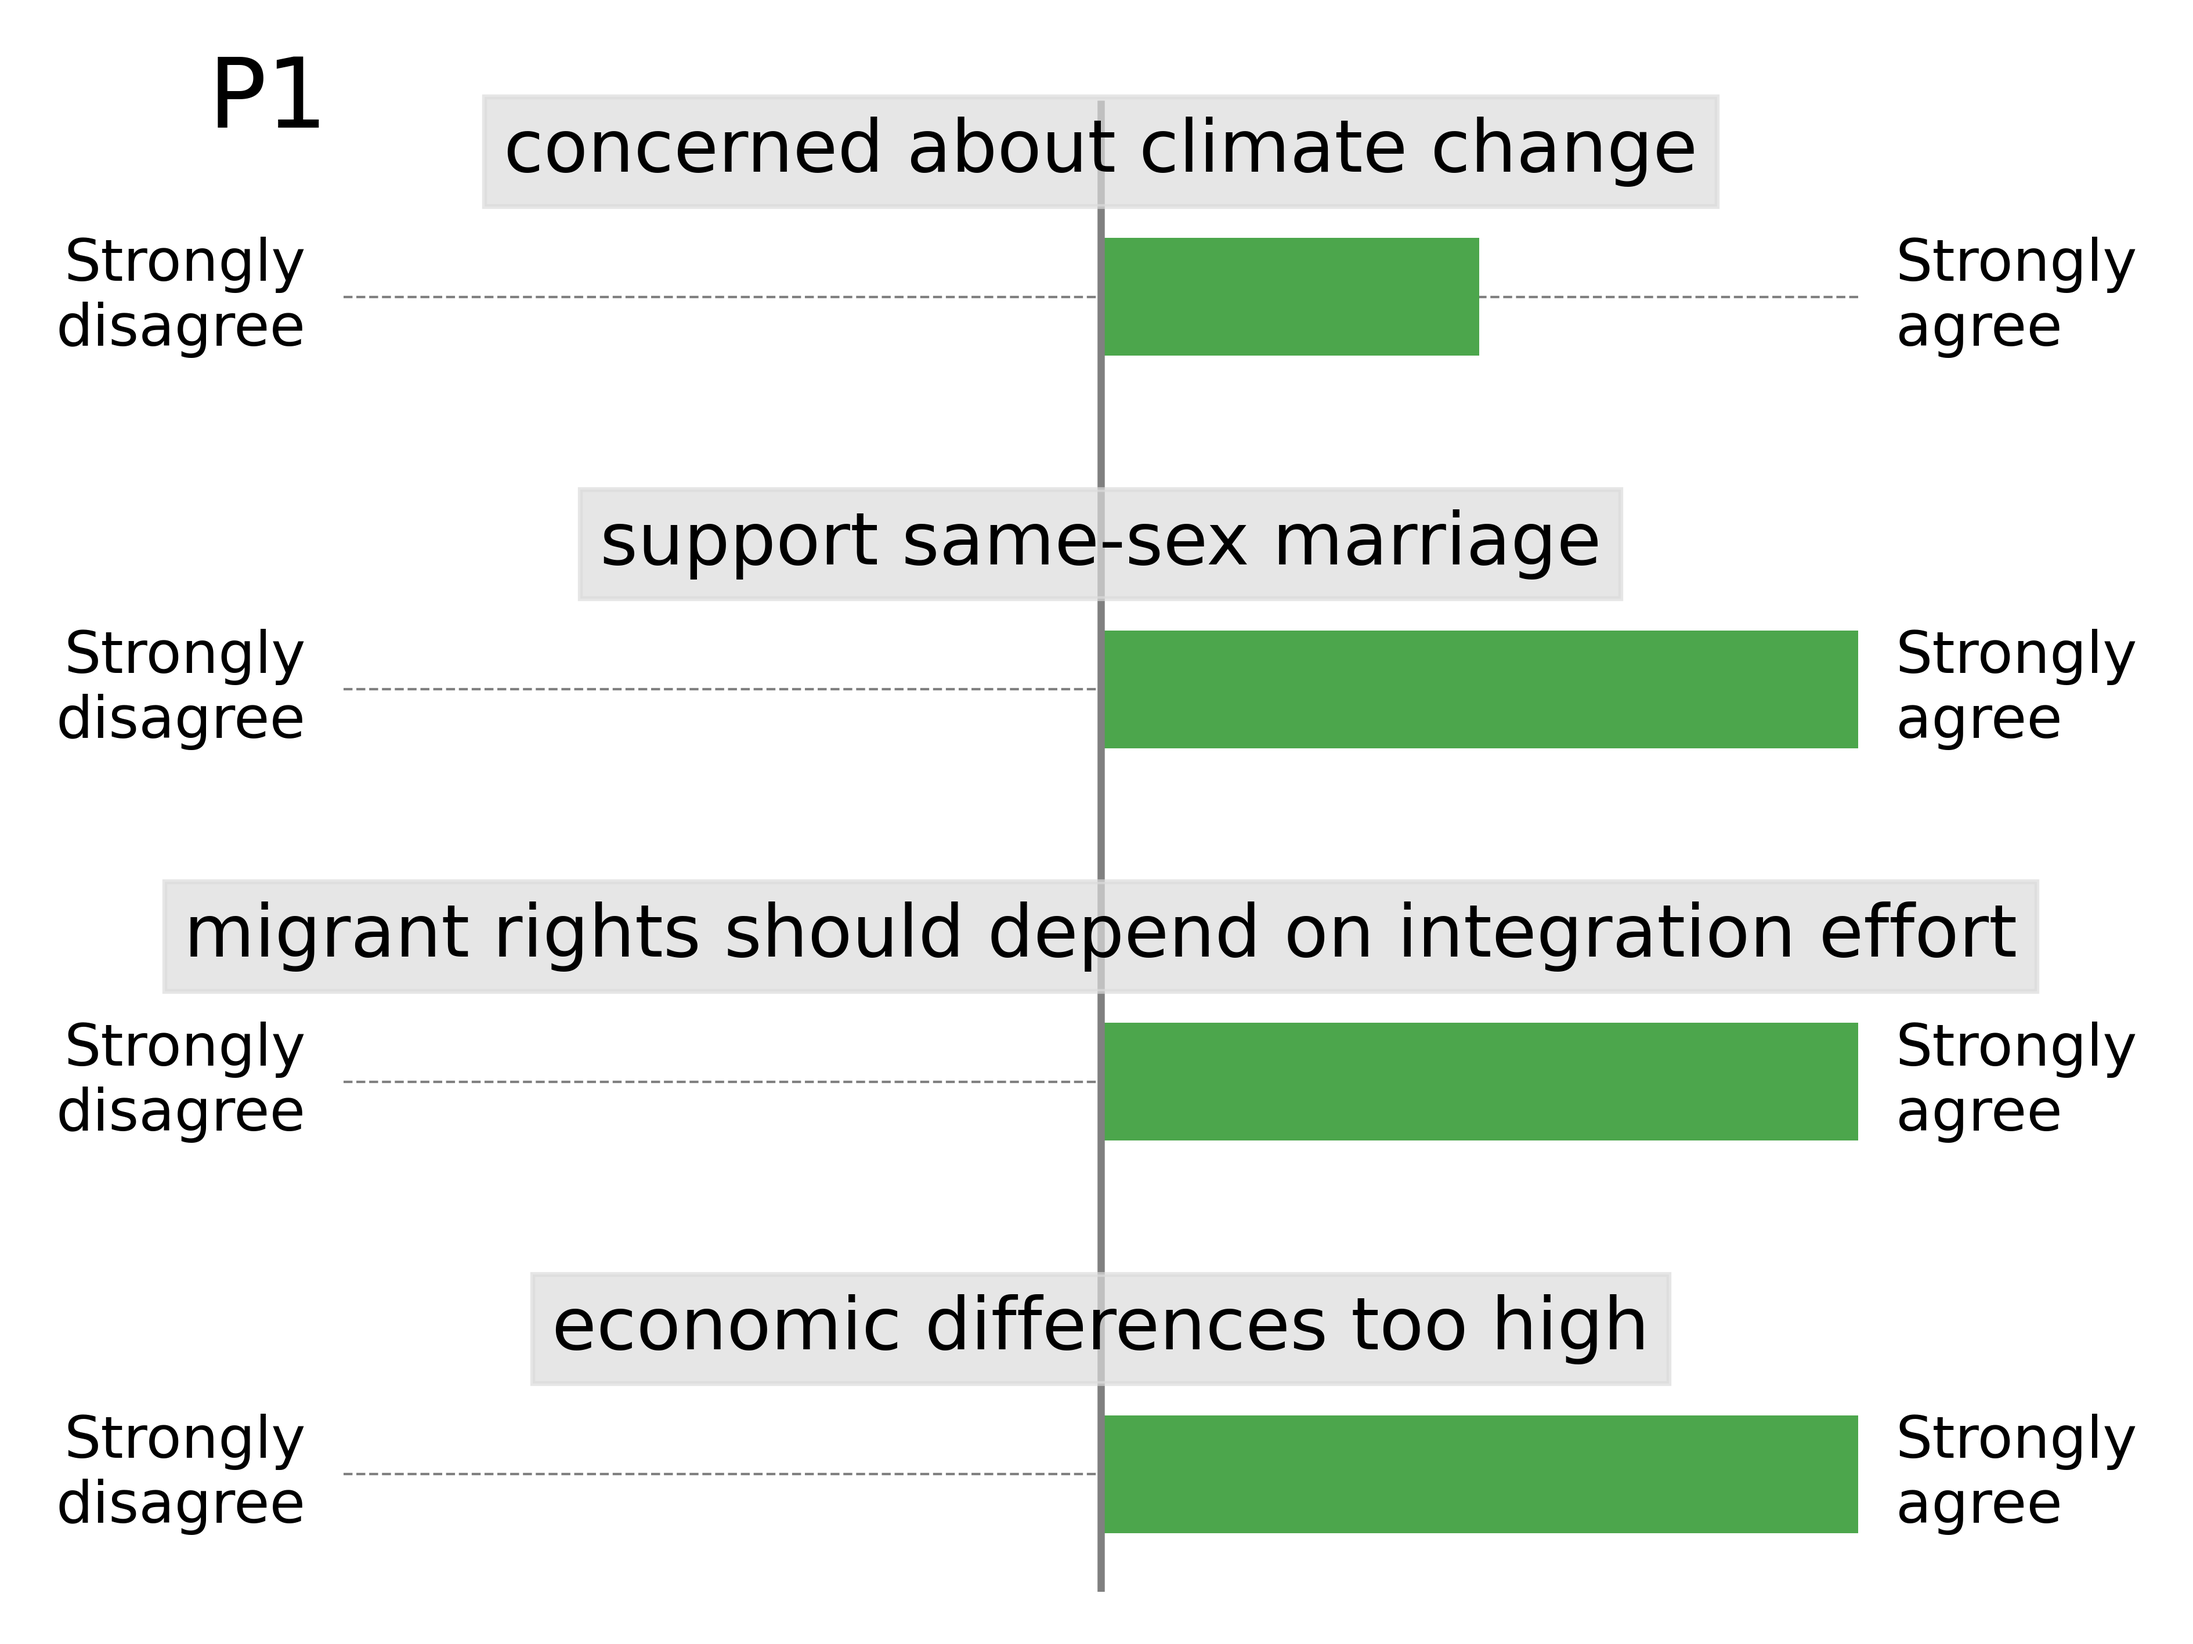
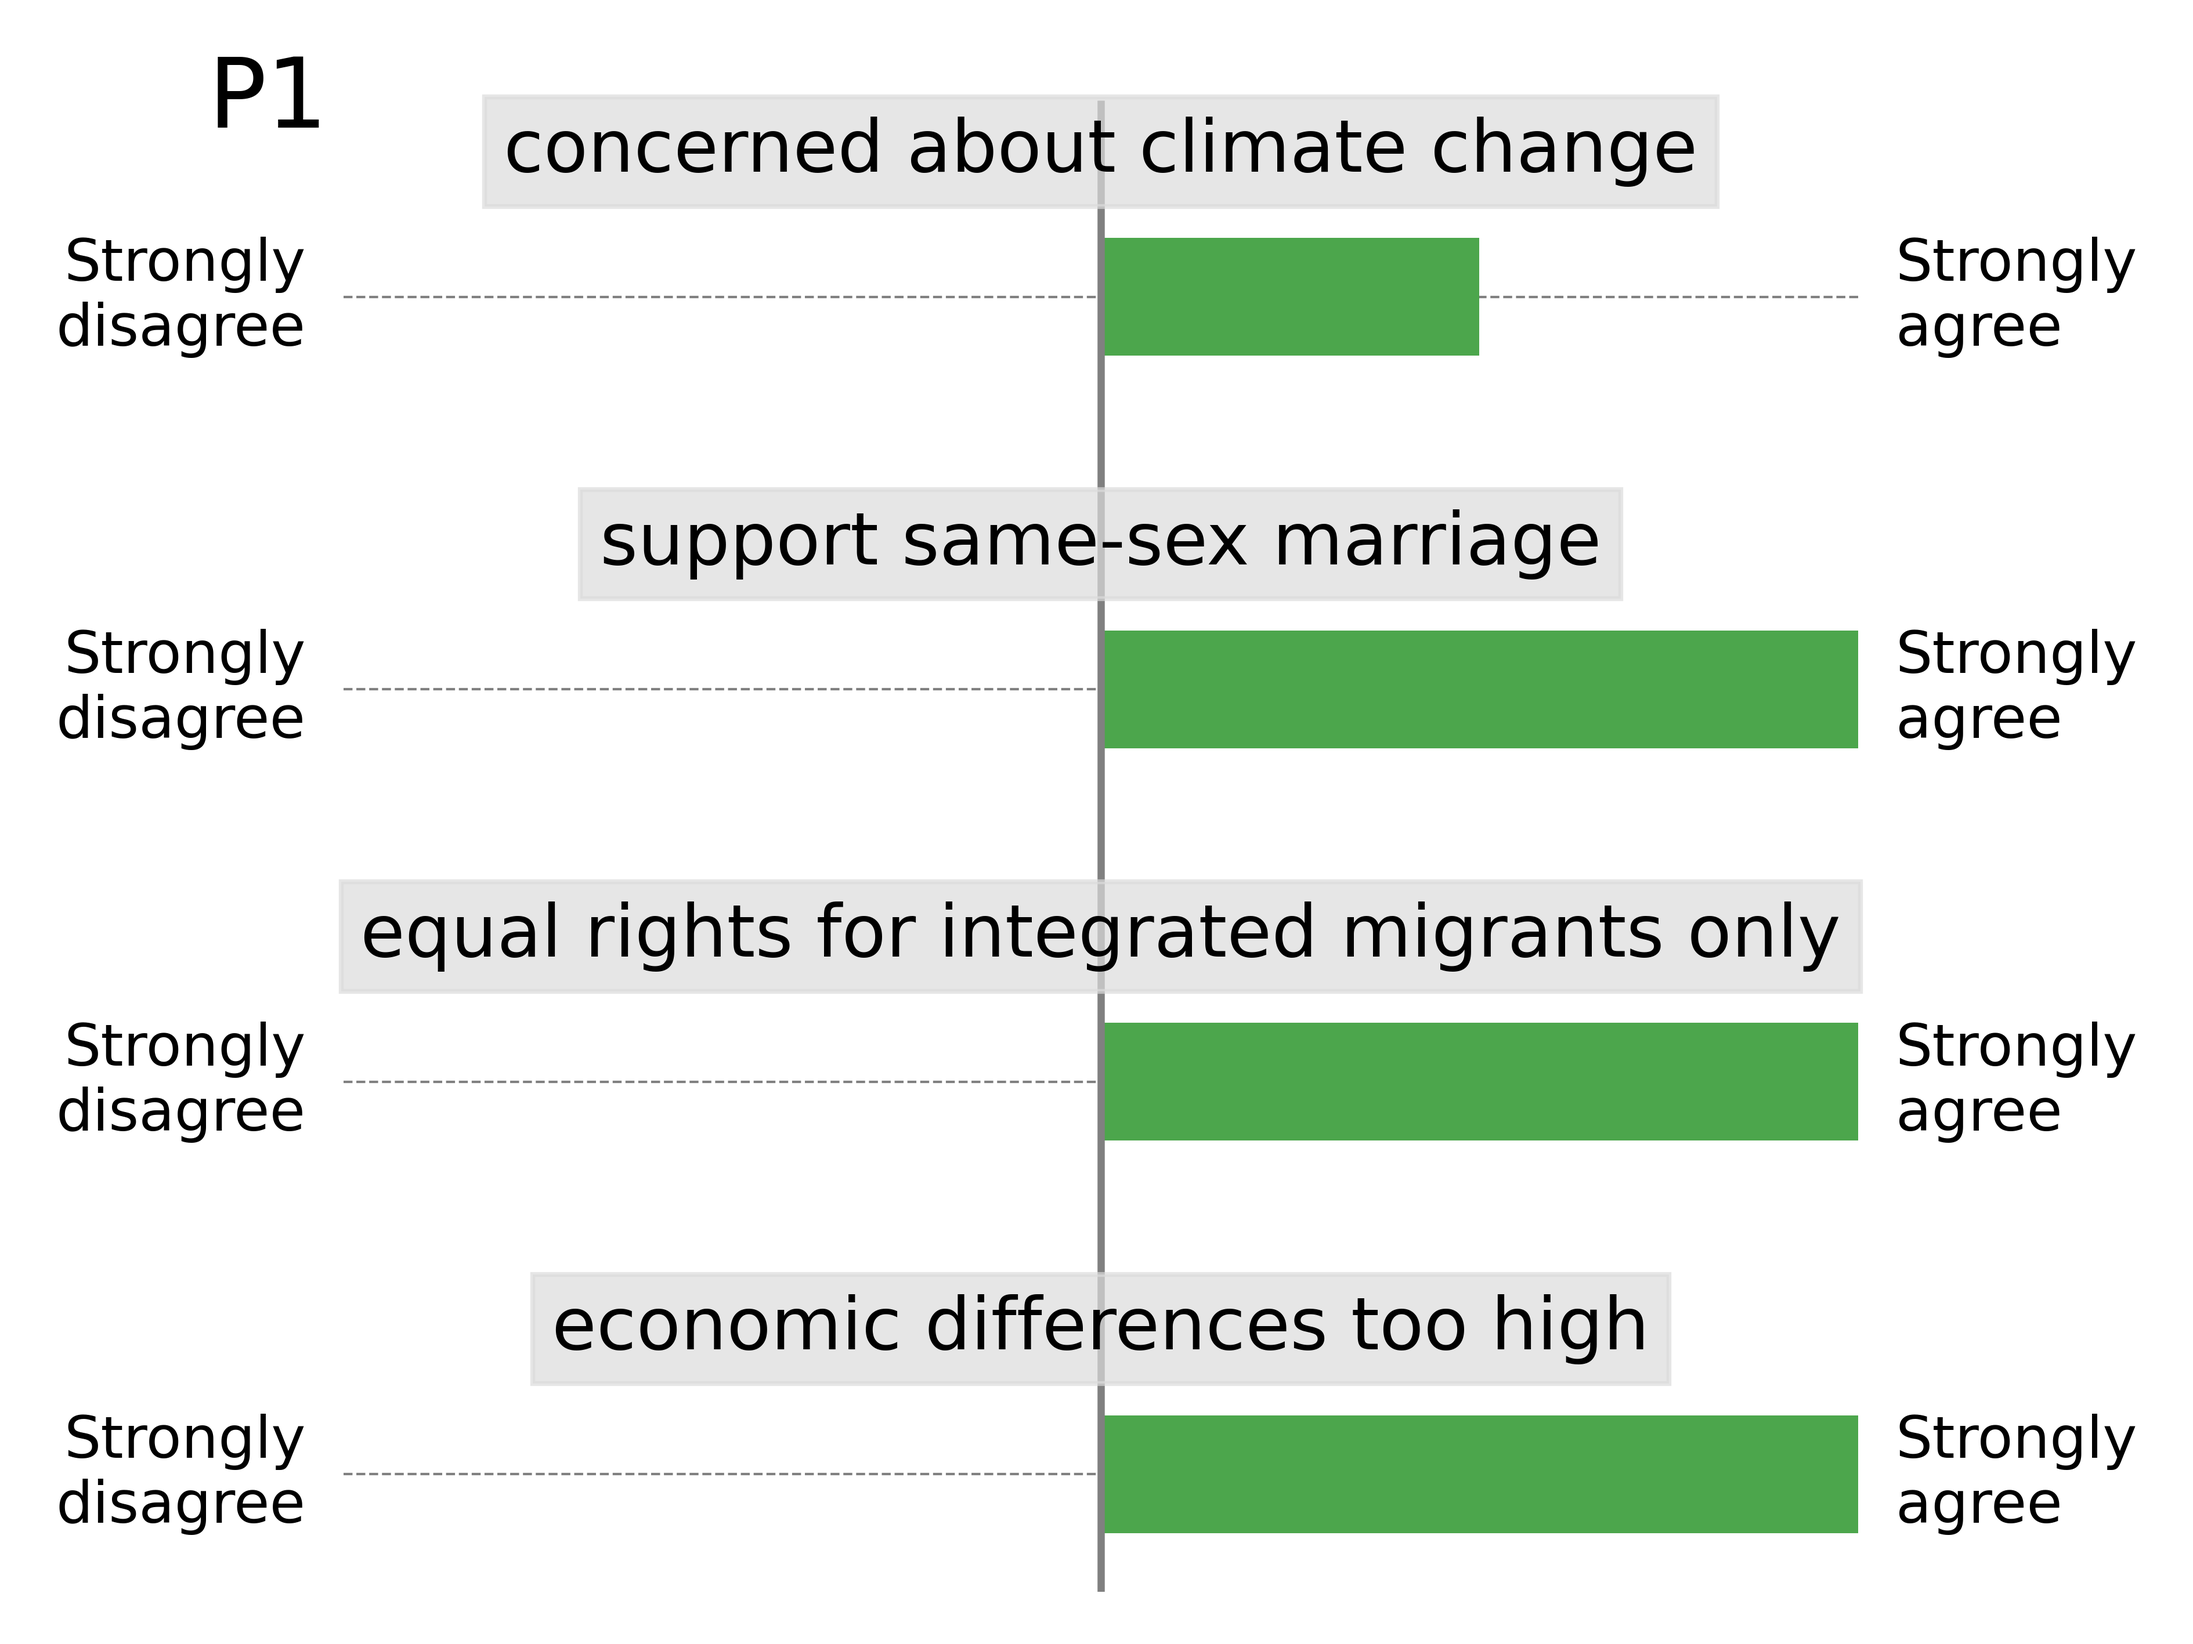
schönheitsfehler

Changed region(s): [[0.4996, 0.5279, 0.9368, 0.621], [0.0625, 0.5279, 0.4684, 0.621]]

diff --git a/survey/slide09_importance.html b/survey/slide09_importance.html
@@ -1,5 +1,5 @@
 {{ block title }}
-Evaluation
+Most important topics
 {{ endblock }}
 
 {{ block content }}
@@ -108,7 +108,7 @@ Evaluation
     <!-- Importance Card -->
     <div class="card">
         <div class="form-group">
-            <label for="id_topic_importance">In the previous mapping exercise, what topics were important for how you arranged the dots?</label>
+            <label for="id_topic_importance">In the political mapping task, what topics were important for how you arranged the dots? You can select one or multiple items.</label>
             
             <!-- Hidden field for actual form submission -->
             <input type="hidden" name="topic_importance" id="topic_importance_hidden" value="">
@@ -125,7 +125,7 @@ Evaluation
                 </div>
                 {% endfor %}
             </div>
-            {{ formfield_errors topic_importance }}
+            {{ formfield_errors "topic_importance" }}
         </div>
     </div>
 </div>

diff --git a/survey/slide05a_MapTest.html b/survey/slide05a_MapTest.html
@@ -1,7 +1,7 @@
 {% block content %}
 <div class="container">
 
-<h2>Political Mapping–Practice run</h2>
+<h2>Political Mapping – Practice run</h2>
 
 
 <p style="margin-bottom: 1.5em; color: black;">In the next part of this survey, we will ask you to place people on a political map based on how distant or similar their political views are. Before the actual task, let us do a short <strong>practice round</strong> to help you get used to the task.

diff --git a/survey/slide05b_MapTestResult.html b/survey/slide05b_MapTestResult.html
@@ -1,10 +1,10 @@
 {% load static %}
 
-{{ block title }}
-Training Results
-{{ endblock }}
+
 
 {{ block content }}
+<h2>Political Mapping – Practice run – Results</h2>
+
 <div style="margin: 2em auto; padding: 1.5em; border-radius: 12px; background-color: #f9f9f9; box-shadow: 0 4px 10px rgba(0,0,0,0.1); font-family: Arial, sans-serif; color: #333;">
 
   <p style="margin-bottom: 1em; font-weight: bold; font-size: 1.1em;">

diff --git a/survey/__init__.py b/survey/__init__.py
@@ -53,7 +53,7 @@ class C(BaseConstants):
     QUESTIONSHORTTEXT = dict(zip( QUESTIONS, [
          "concerned about climate change", 
          "support same-sex marriage",
-         "migrant rights should depend on integration effort",
+         "equal rights for integrated migrants only",
          "economic differences too high"
     ])) 
     # QUESTIONSHORTTEXT = dict(zip( QUESTIONS, [
@@ -67,8 +67,8 @@ class C(BaseConstants):
     QUESTIONNAMES = dict(zip( QUESTIONS, [
         "Opinion about climate change", 
         "Opinion about same-sex marriage", 
-        "Opinion about migrant rights depending on integration efforts",
-        "Opinion about inequality",
+        "Opinion about migrants' rights and integration",
+        "Opinion about economic inequality",
         ]))
     # QUESTIONNAMES = dict(zip( QUESTIONS, [
     #     "concern about climate", 

diff --git a/survey/prototypes.py b/survey/prototypes.py
@@ -13,7 +13,7 @@ QUESTIONTEXT = dict(zip(QUESTIONS, [
 QUESTIONSHORTTEXT = dict(zip( QUESTIONS, [
         "concerned about climate change", 
         "support same-sex marriage",
-        "migrant rights should depend on integration effort",
+        "equal rights for integrated migrants only",
         "economic differences too high"
 ])) 
 # QUESTIONS_SC =["climate_concern", 
